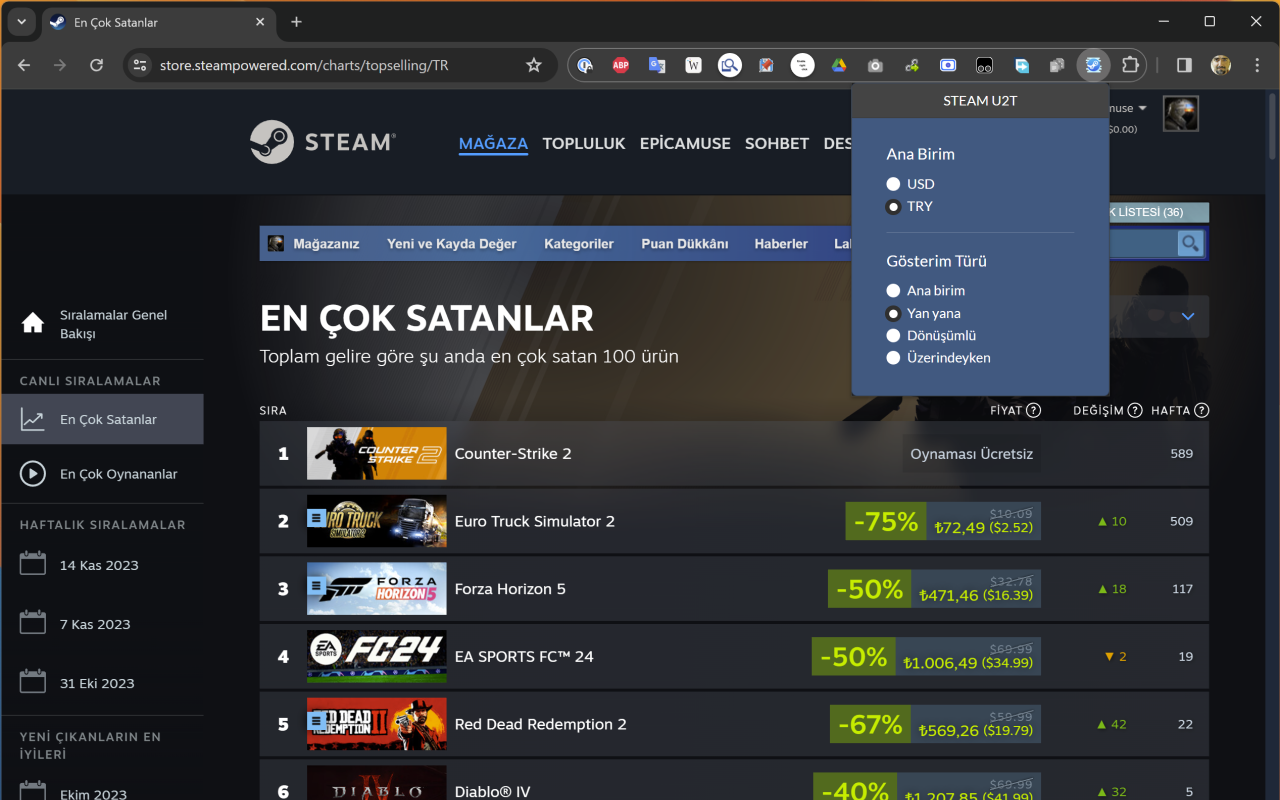
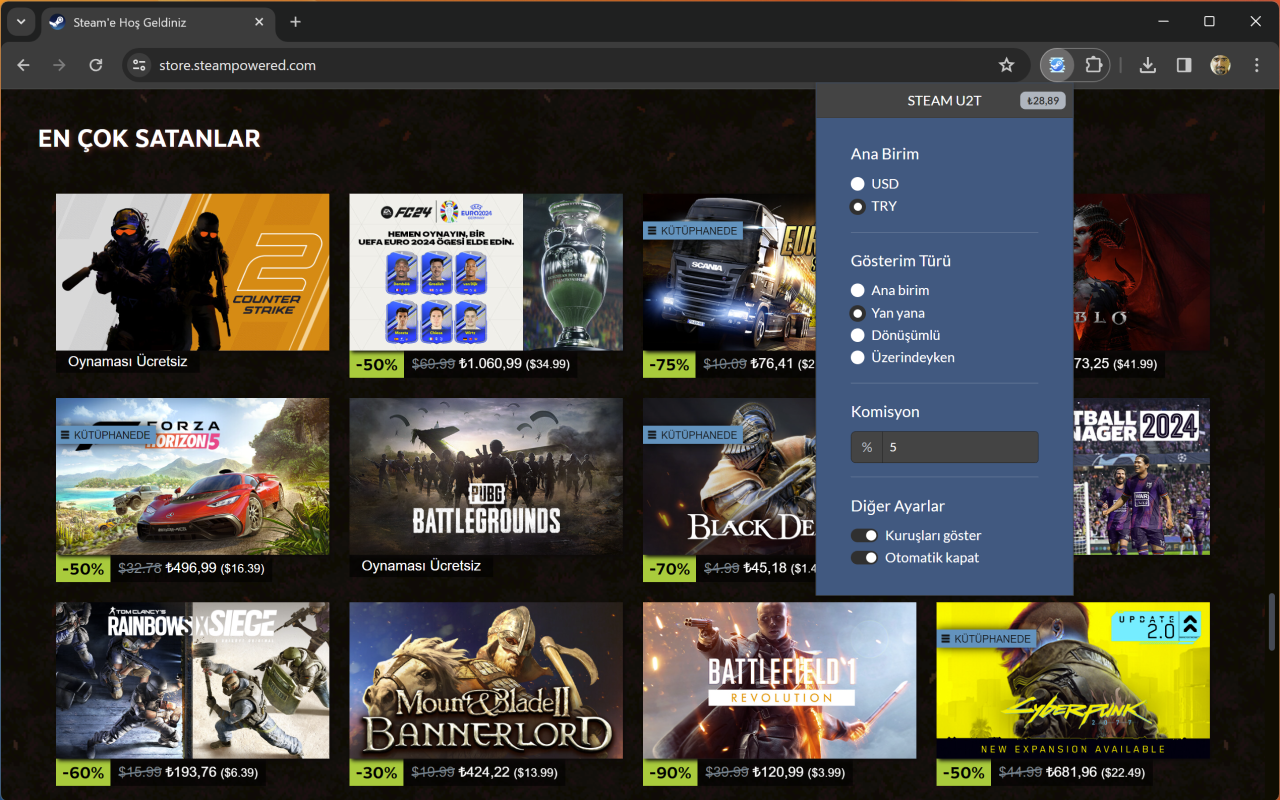
Add new options.

diff --git a/popup.html b/popup.html
@@ -9,8 +9,11 @@
   <body>
     <form name="settings">
       <div class="card text-white bg-primary">
-        <div class="card-header text-center">STEAM U2T</div>
-        <div class="card-body">
+        <div class="card-header text-center position-relative">
+          STEAM U2T
+          <span id="rate" class="badge d-none bg-light text-dark position-absolute top-50 end-0 translate-middle-y me-2"></span>
+        </div>
+        <div class="card-body">          
           <fieldset class="form-group">
             <legend><small>Ana Birim</small></legend>
             <div class="form-check">
@@ -91,6 +94,31 @@
                 Üzerindeyken
               </label>
             </div>
+          </fieldset>
+
+          <hr />
+
+          <fieldset class="form-group">
+            <legend><small>Komisyon</small></legend>
+
+            <div class="input-group">
+              <span class="input-group-text">%</span>
+              <input type="number" name="opCommission" id="opCommission" class="form-control form-control-sm">
+            </div>    
+          </fieldset>          
+
+          <hr />          
+
+          <fieldset class="form-group">
+            <legend><small>Diğer Ayarlar</small></legend>
+            <div class="form-check form-switch">
+              <input class="form-check-input" type="checkbox" name="opDecimals" id="opDecimals" checked="checked">
+              <label class="form-check-label" for="opDecimals">Kuruşları göster</label>
+            </div>
+            <div class="form-check form-switch">
+              <input class="form-check-input" type="checkbox" name="opAutoClose" id="opAutoClose" checked="checked">
+              <label class="form-check-label" for="opAutoClose">Otomatik kapat</label>
+            </div>            
           </fieldset>
         </div>
       </div>

diff --git a/scripts/popup.js b/scripts/popup.js
@@ -2,21 +2,46 @@ window.addEventListener("load", function () {
   browser.storage.local
     .get({
       currency: 1,
-      presentation: 1,
+      presentation: 2,
+      commission: 0,
+      decimals: true,
+      autoClose: true
     })
     .then((result) => {
       var settings = document.forms["settings"].elements;
 
       settings.opCurrency.value = result.currency;
       settings.opPresentation.value = result.presentation;
+      settings.opCommission.value = result.commission;
+      settings.opDecimals.checked = result.decimals;
+      settings.opAutoClose.checked = result.autoClose;
     });
+
+  browser.storage.local.get("usdRate").then((data) => {
+    var rate = document.getElementById("rate");
+
+    if (data.usdRate) {
+      rate.classList.remove("d-none");
+
+      rate.textContent = (+data.usdRate).toLocaleString("tr-TR", {
+        style: "currency",
+        currency: "TRY",
+        minimumFractionDigits: 4
+      });
+    }
+  });
 });
 
 document.forms["settings"].addEventListener("change", async function () {
-  browser.storage.local.set({
+  var options = {
     currency: +this.opCurrency.value,
     presentation: +this.opPresentation.value,
-  });
+    commission: +this.opCommission.value,
+    decimals: this.opDecimals.checked,
+    autoClose: this.opAutoClose.checked
+  }
+
+  browser.storage.local.set(options);
 
   const [tab] = await browser.tabs.query({
     active: true,
@@ -27,5 +52,7 @@ document.forms["settings"].addEventListener("change", async function () {
     browser.tabs.sendMessage(tab.id, { update: true });
   }
 
-  self.close();
+  if (options.autoClose) {
+    self.close();
+  }
 });

diff --git a/scripts/content-script.js b/scripts/content-script.js
@@ -44,9 +44,14 @@ function run(data, settings) {
 
       var originalPrice = originalContent.replace("USD", "").trim();
 
-      var multipliedPrice = multipliedPrice.toLocaleString("tr-TR", {
+      if (settings.commission) {
+        multipliedPrice = multipliedPrice * (1 + (settings.commission / 100));
+      }
+
+      multipliedPrice = multipliedPrice.toLocaleString("tr-TR", {
         style: "currency",
         currency: "TRY",
+        maximumFractionDigits: settings.decimals ? 2 : 0,
       });
 
       if (settings.currency === 2) {
@@ -88,7 +93,9 @@ function start(update) {
     browser.storage.local
       .get({
         currency: 1,
-        presentation: 1,
+        presentation: 2,
+        commission: 0,
+        decimals: true 
       })
       .then((settings) => {
         if (settings.presentation === 3) {

diff --git a/styles/popup.css b/styles/popup.css
@@ -1,9 +1,15 @@
 html {
-  padding: 0;
+  padding: 0; 
+  overflow: hidden;
+}
+
+body {
   margin: 0;
-  min-width: 300px;
-  max-width: 300px;
-  transform: scale(.85);  
+}
+
+.card,
+.card-header {
+  border-radius: 0 !important;
 }
 
 .card-body {
@@ -11,9 +17,23 @@ html {
 }
 
 .form-check-input:checked {
+  background-color: #303030;
+}
+
+.form-check:not(.form-switch) .form-check-input:checked {
   width: 1.2em;
   height: 1.2em;
   margin-top: 0.2em;
   margin-left: -1.6em;
-  background-color: #303030;
+}
+
+#opCommission {
+  color: #fff;
+  background-color: #444;
+}
+
+#opCommission:focus {
+  color: #444;
+  background-color: #fff;
+  transition: background-color 0.5s ease;
 }
